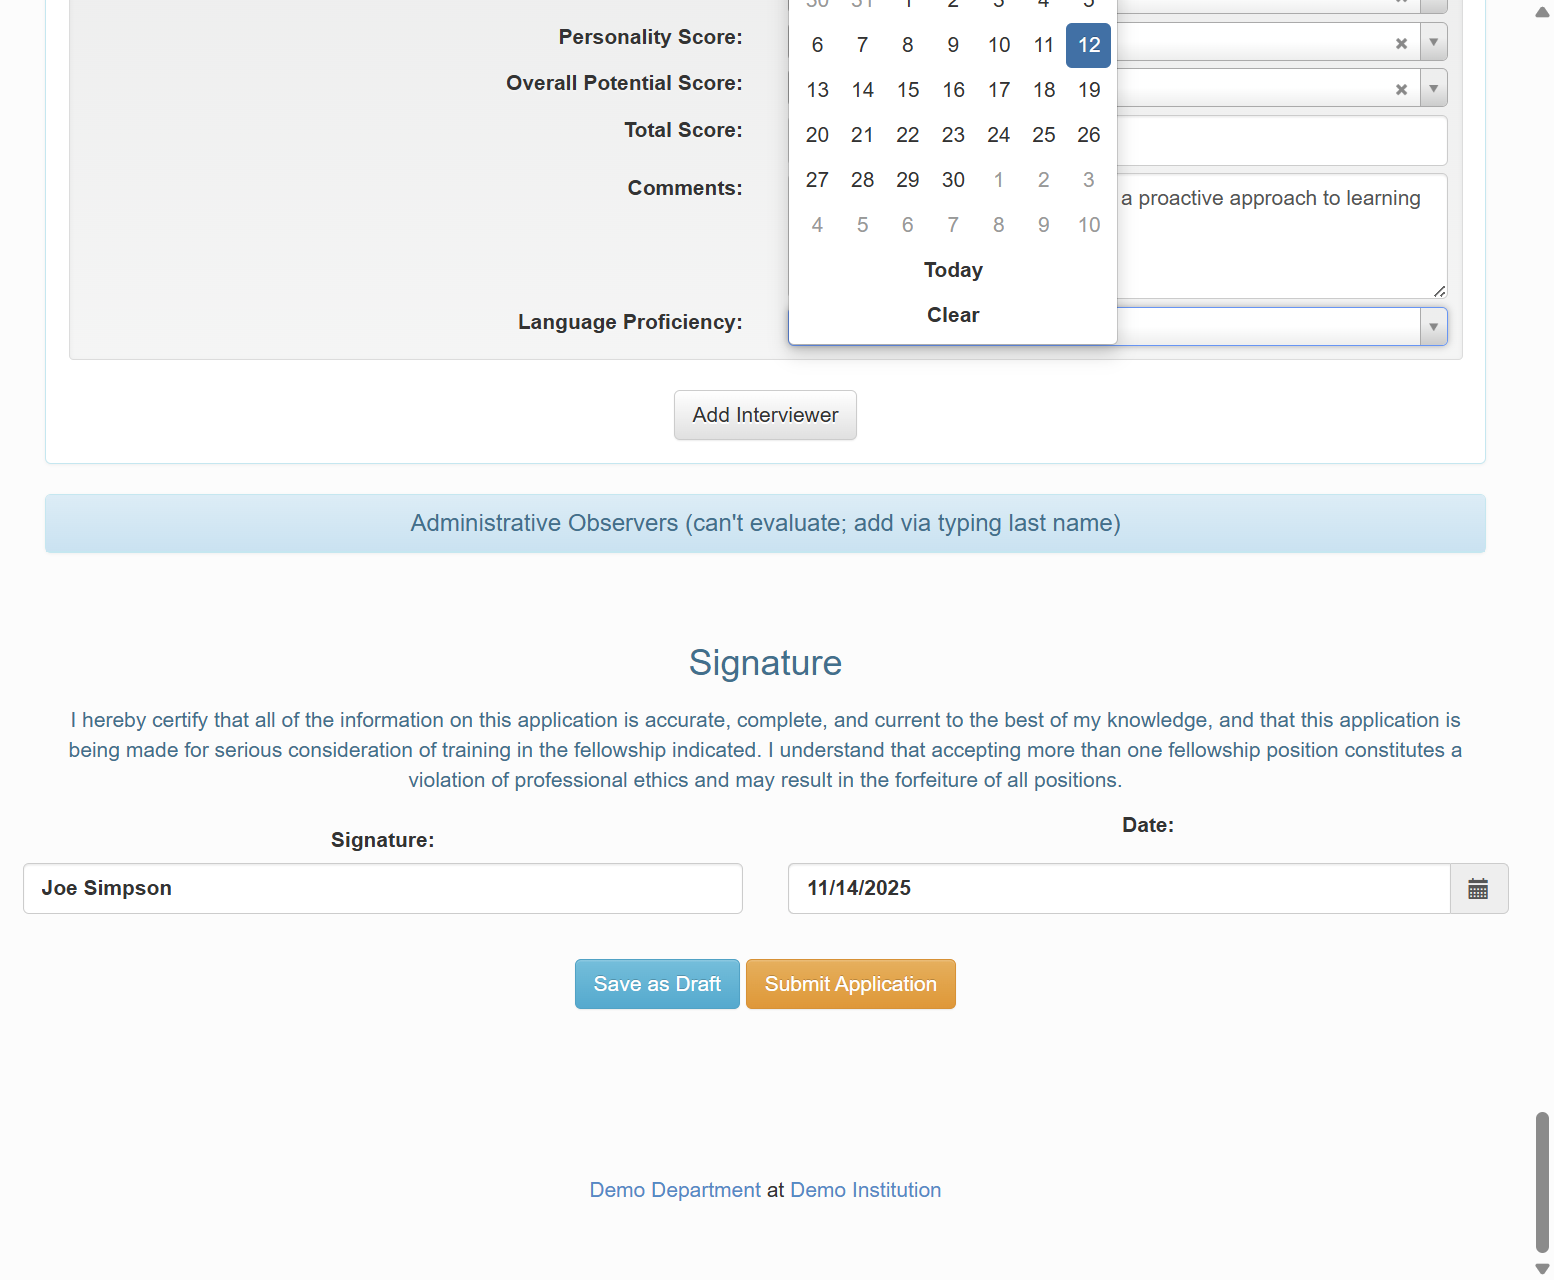
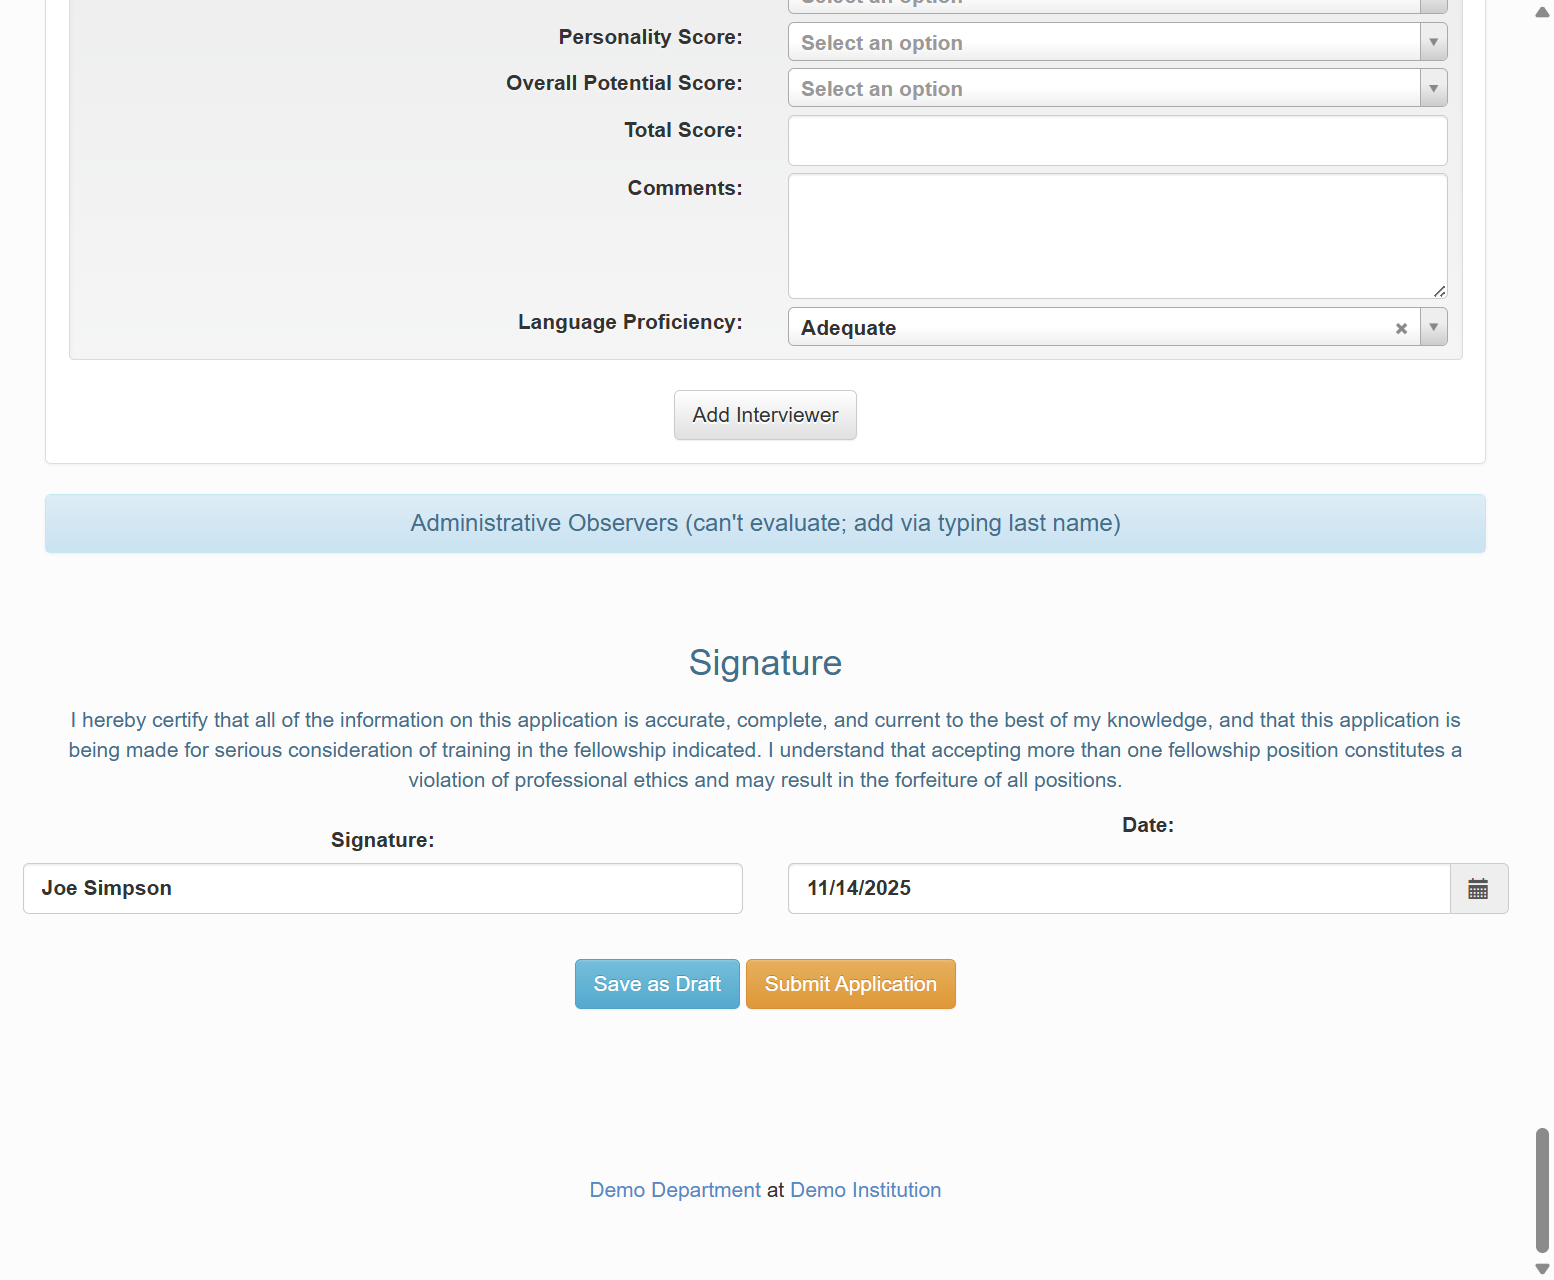
added interviewers language rank

diff --git a/utils/scraper/fellapp.py b/utils/scraper/fellapp.py
@@ -807,7 +807,7 @@ class FellApp:
         try:
             time.sleep(1)
             # Choose a random rank from 1 to 3
-            language_value = random.randint(1, 3)
+            language_value = random.randint(1, 2)
             print(f"Setting language to: {language_value}")
             # Inject the value into the Select2-enhanced field
             script = f"""
